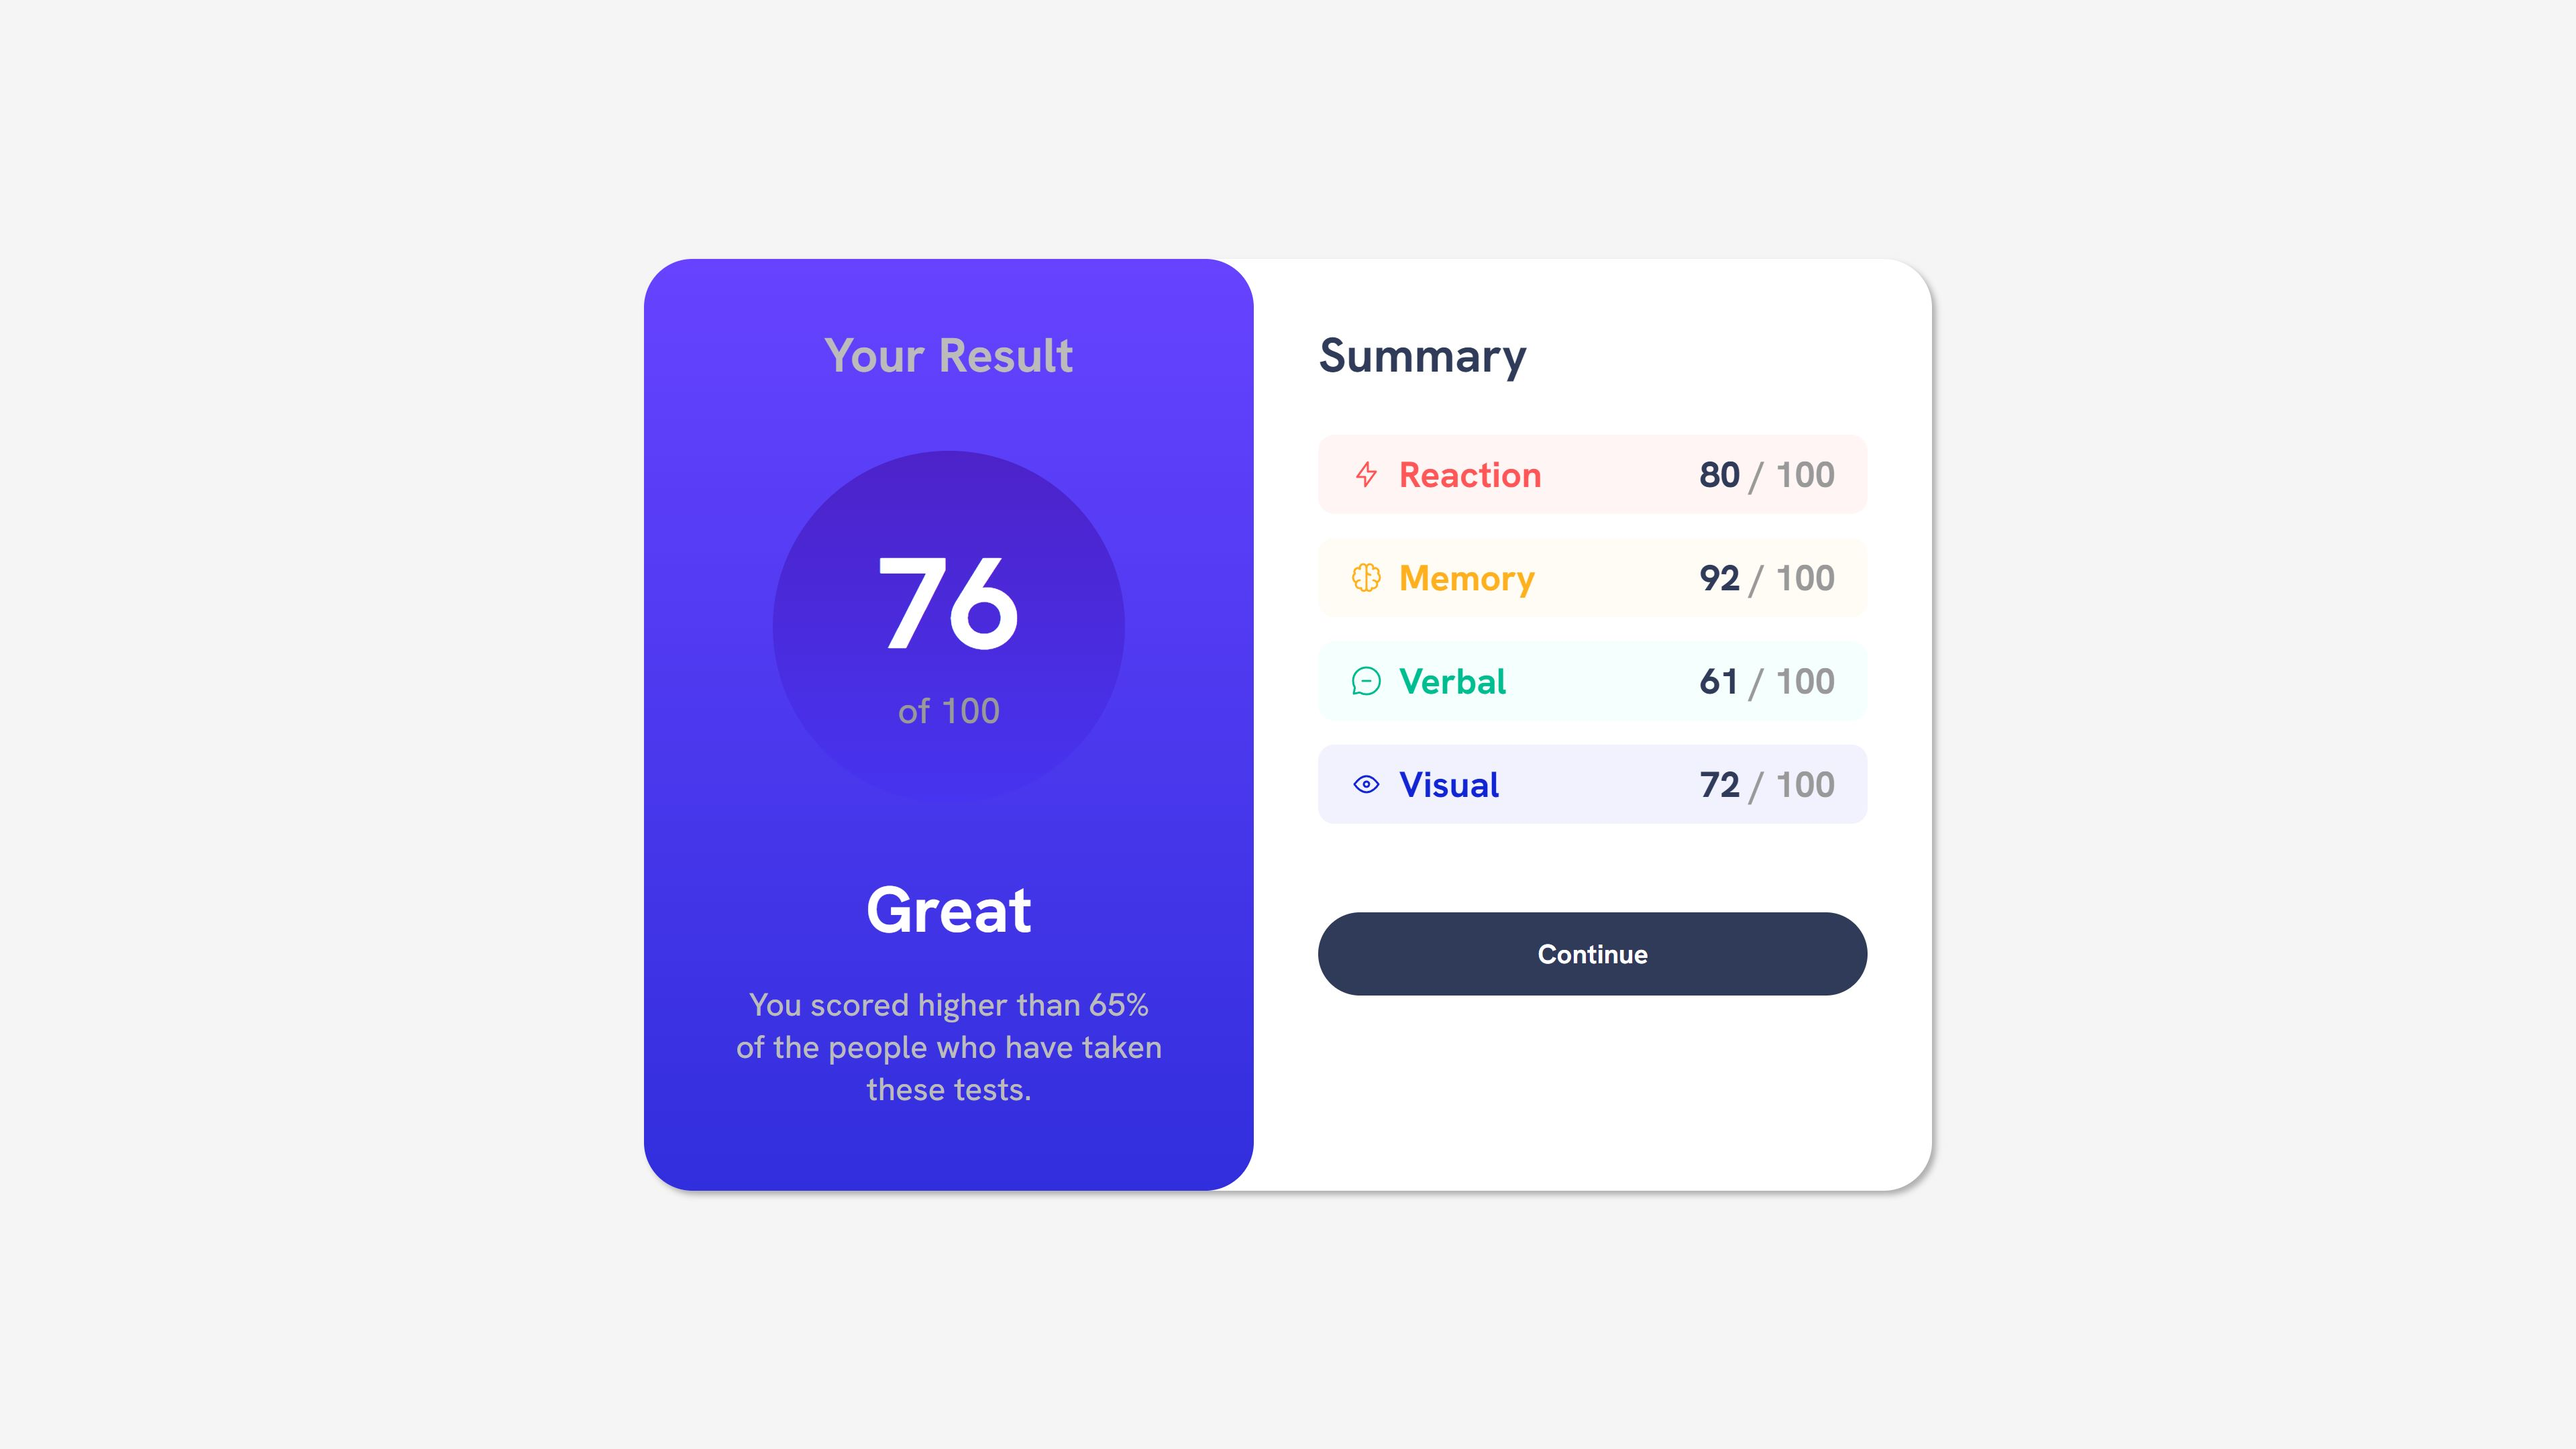
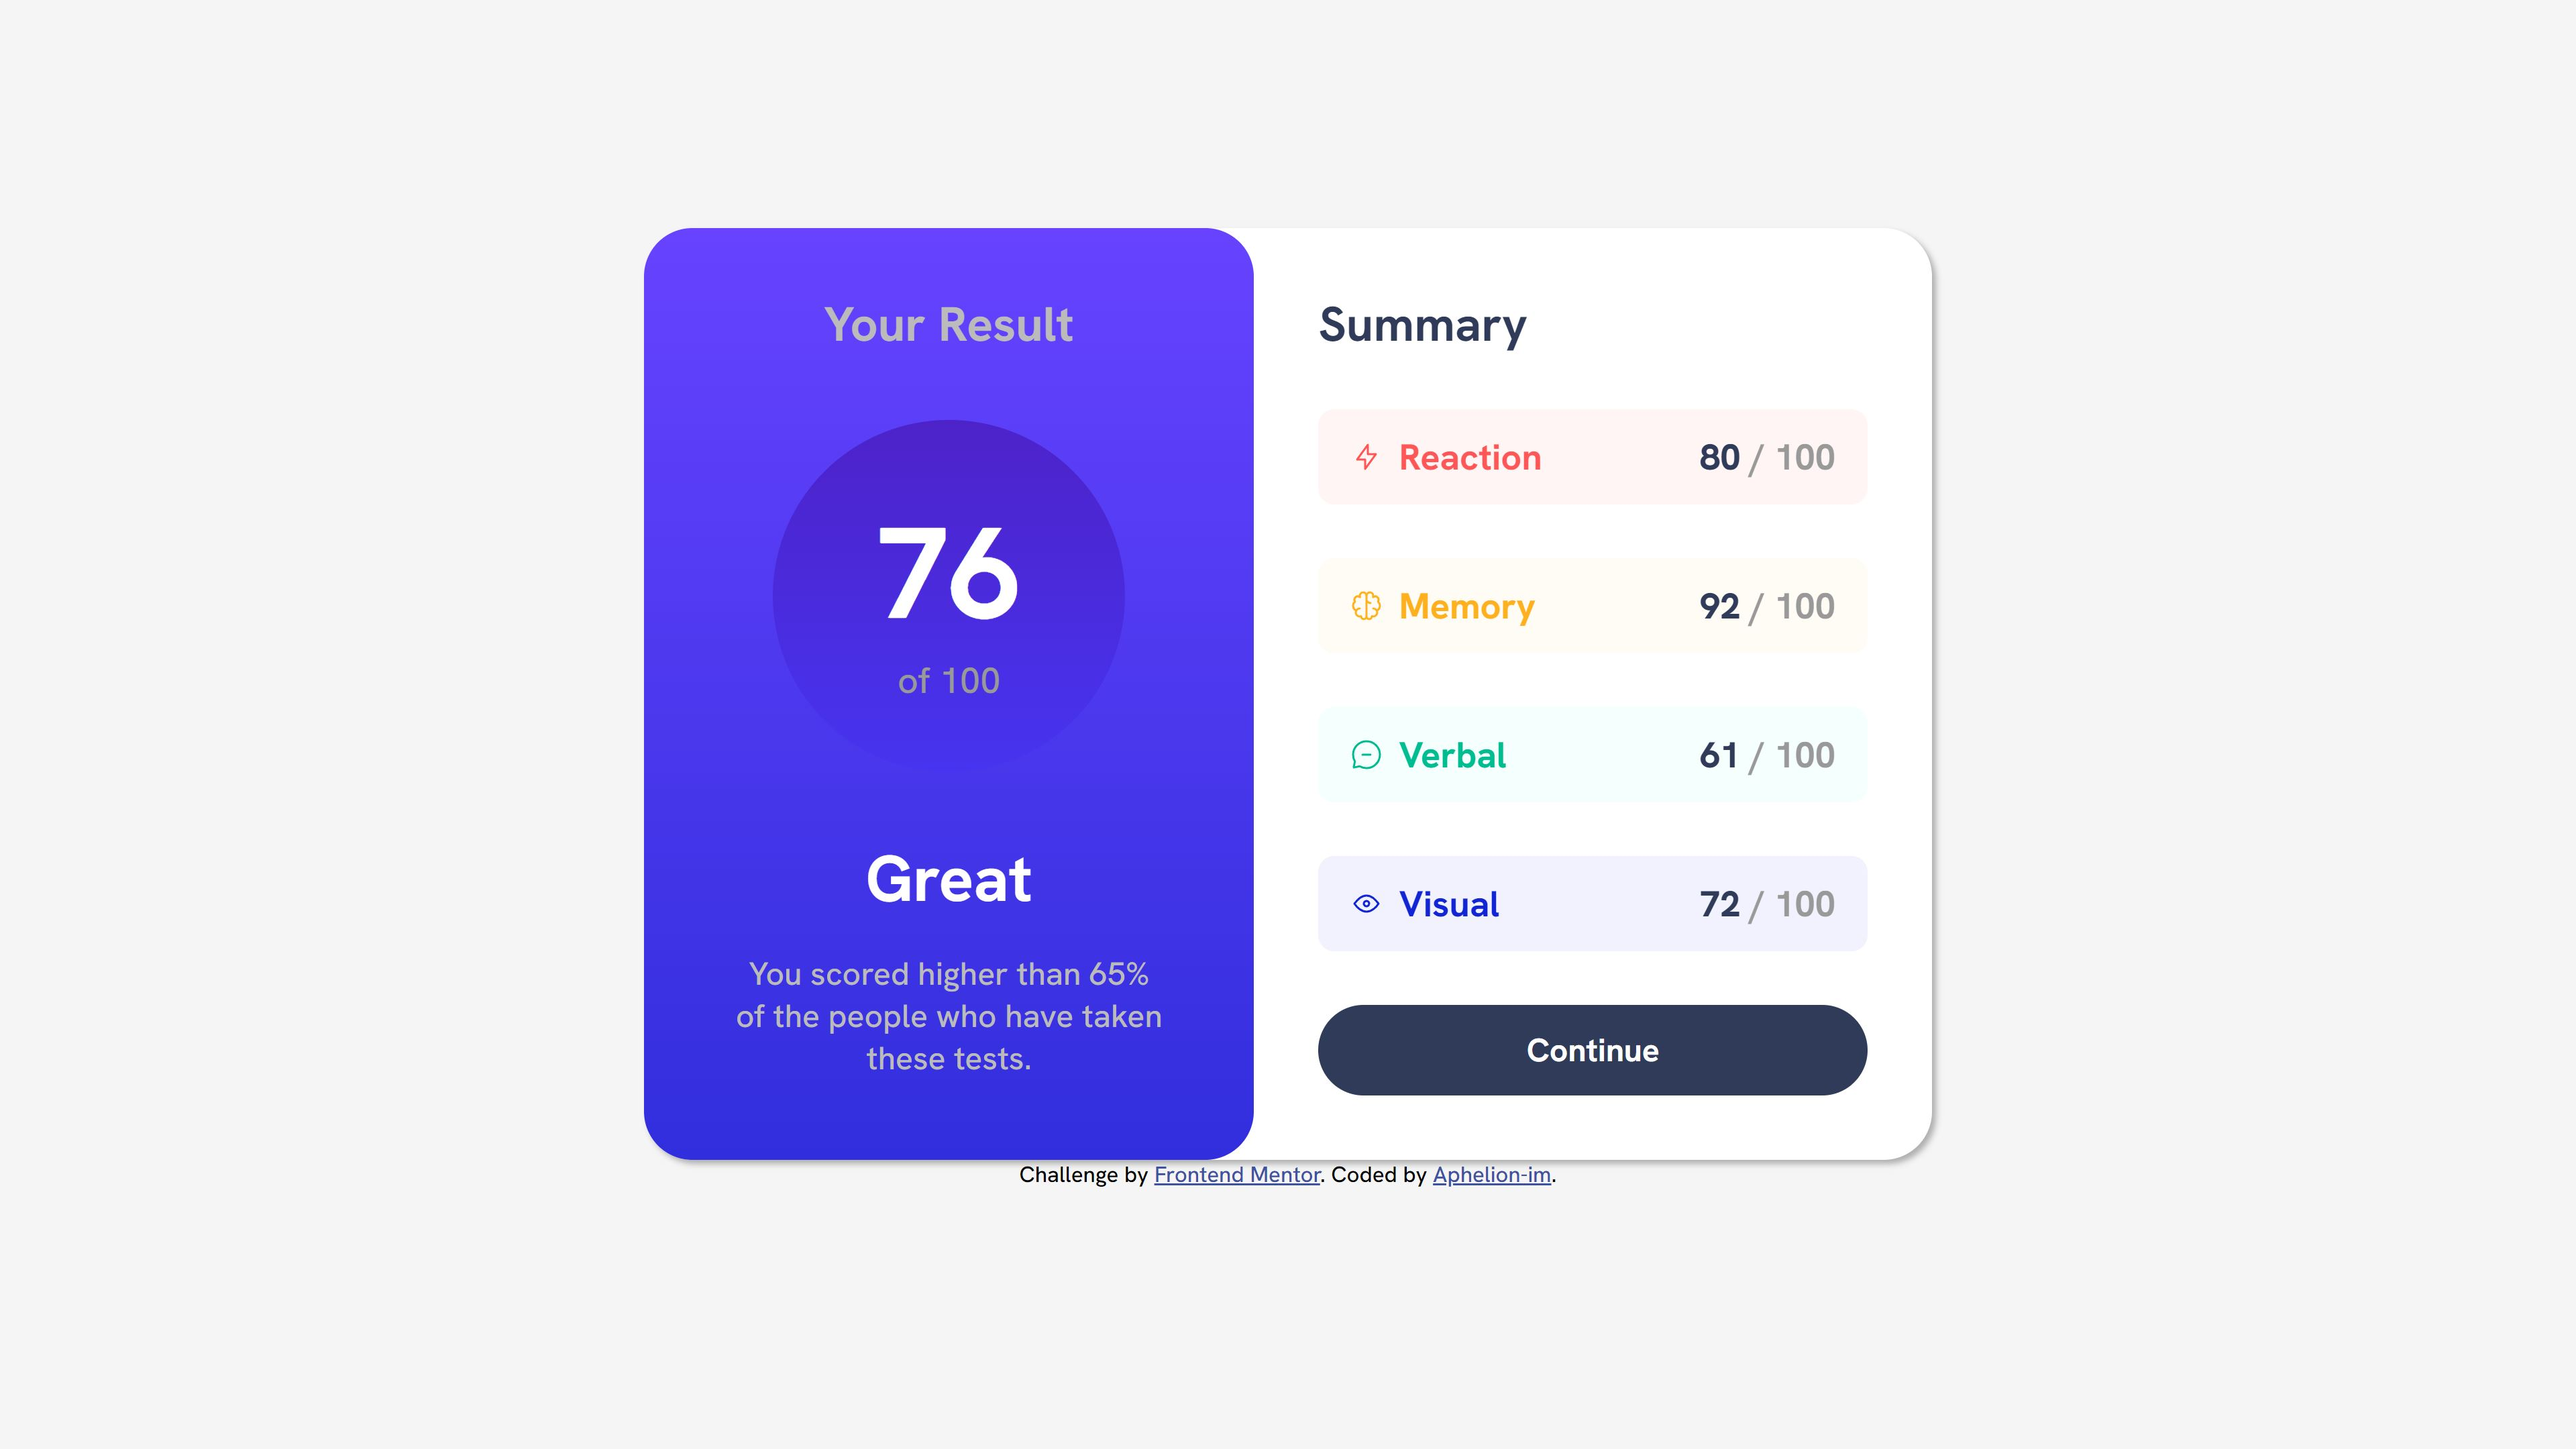
Fixed some spacing

diff --git a/styles.scss b/styles.scss
@@ -38,8 +38,6 @@ $dark-gray-blue: hsl(224, 30%, 27%);
 
 html {
   scroll-behavior: smooth;
-  min-height: 100vh;
-
 }
 
 body {
@@ -65,7 +63,7 @@ button,
 input,
 textarea,
 select {
-  font-family: inherit;
+  font: inherit;
 }
 
 img {
@@ -161,13 +159,16 @@ p {
 // Summary - Nested
 .summary {
   width: 100%;
-  padding: 2rem;
+  padding: 1rem 2rem 2rem 2rem;
   border-radius: 0 24px 24px 0;
+  display: flex;
+  flex-direction: column;
+  justify-content: space-between;
+  gap: 0.75rem;
 
   h2 {
     color: $dark-gray-blue;
     text-align: left;
-    margin: 0 0 24px 0;
   }
 
   p {
@@ -175,9 +176,8 @@ p {
     flex-direction: row;
     justify-content: space-between;
     align-items: center;
-    padding: 8px 16px;
+    padding: 12px 16px;
     border-radius: 8px;
-    margin-bottom: 12px;
     font-weight: 700;
 
     img {
@@ -222,7 +222,6 @@ p {
     padding: 12px 32px;
     border-radius: 24px;
     width: 100%;
-    margin-top: 32px;
     font-weight: 700;
     color: $white;
     border: none;
@@ -253,10 +252,15 @@ p {
   .component-container {
     flex-direction: row;
     width: 70%;
+    max-width: 650px;
   }
 
   .result {
     border-radius: 24px;
+  }
+
+  .summary {
+    padding: 2rem;
   }
 }
 
